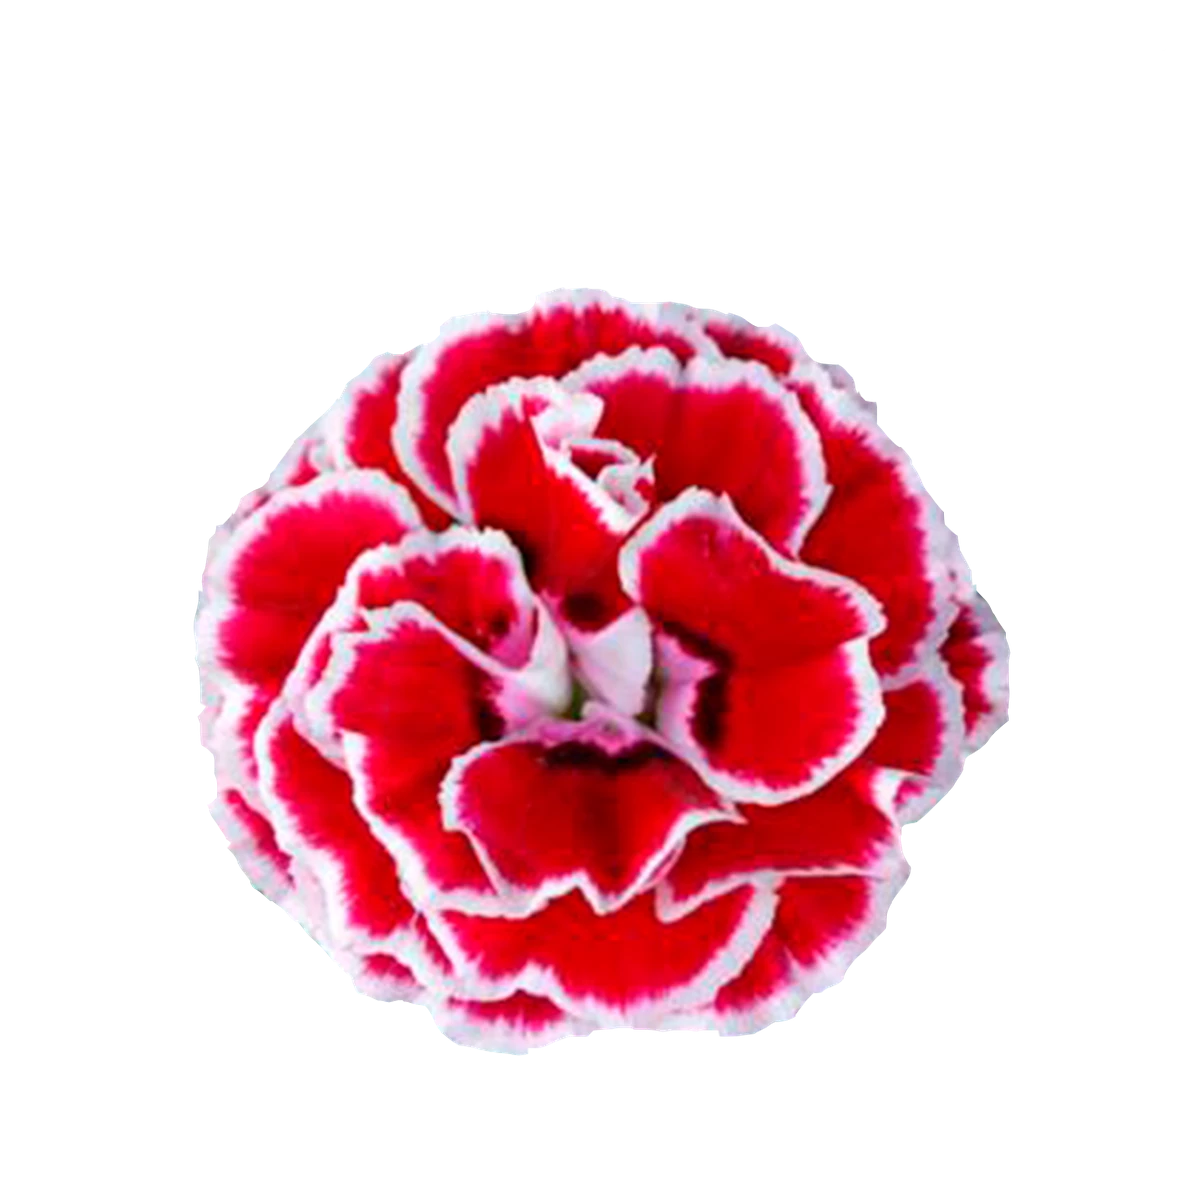
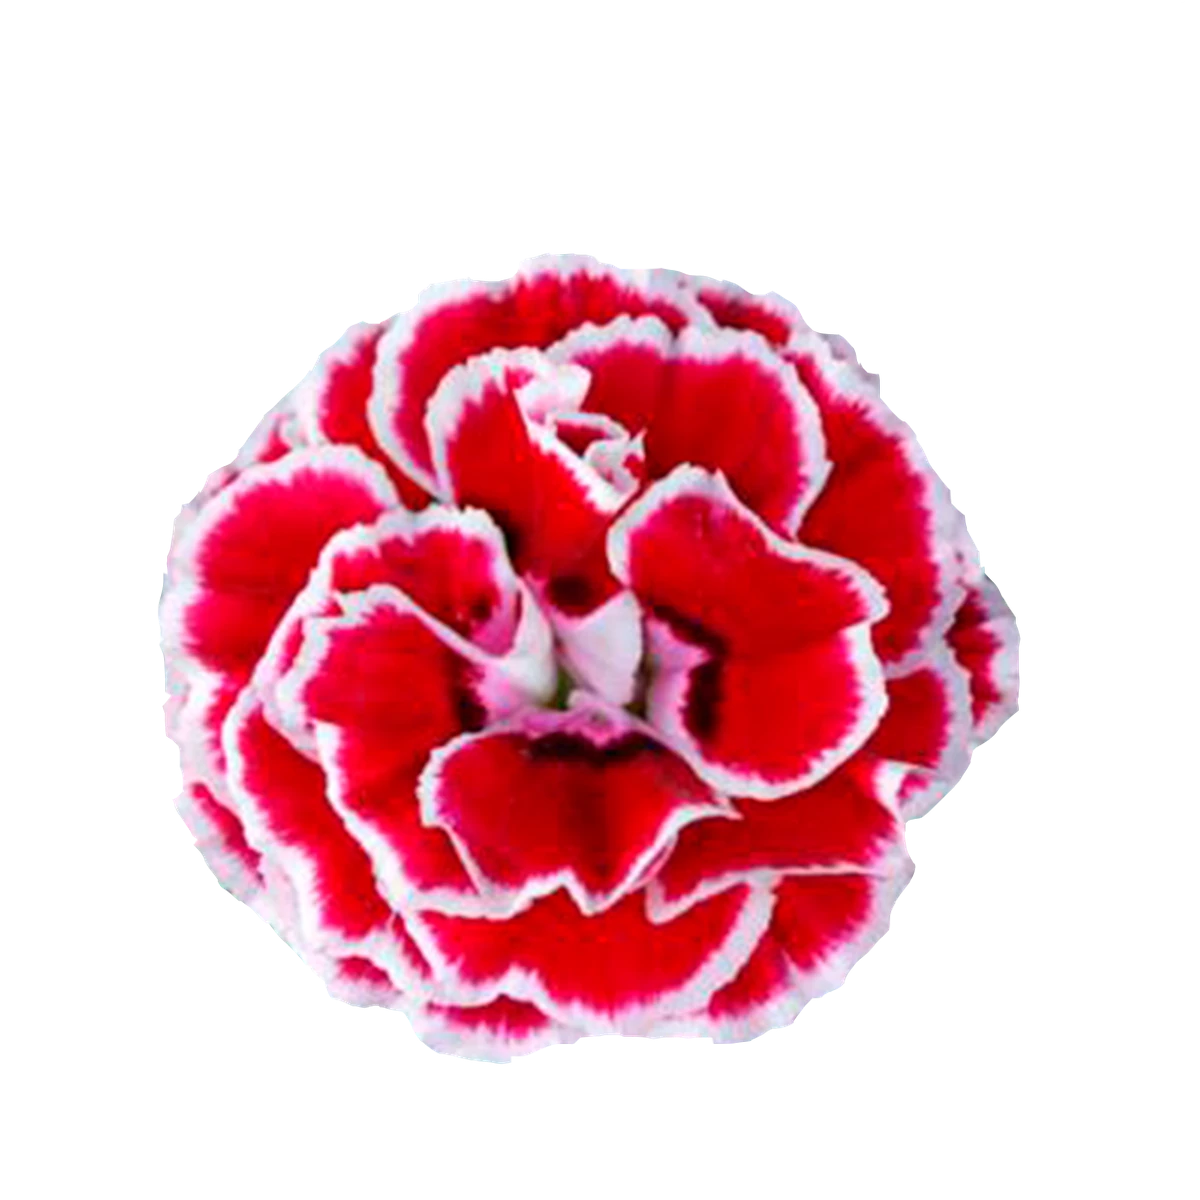
Clavel de la Red Española de Danzas Circulares en vector: contorno parejo y nítido

Changed region(s): [[0.1233, 0.185, 0.8633, 0.8942]]

diff --git a/marcas/index.html b/marcas/index.html
@@ -259,7 +259,7 @@ dialog.zoom img{display:block;max-width:min(96vw,1200px);height:auto;border-radi
     <dl class="spec"><div><dt>Rol</dt><dd>Logo de la Red, logotipo del festival y piezas</dd></div><div><dt>Entregables</dt><dd>Símbolo en color y lineal, logotipo del festival, folleto, mail de inscripción, redes y remera</dd></div><div><dt>Festival</dt><dd>2024, Sant Feliu de Llobregat, Barcelona</dd></div></dl>
   </div>
   <h3 class="label">Camino</h3>
-  <ol class="path"><li class="step"><div class="step-text"><h4>Empezar por lo evidente</h4><p>Primero dibujé una ronda de figuras que giran y un molinete de pétalos. Decían danza, pero no decían España.</p></div><button type="button" class="shot" data-zoom="img/dcs-exploracion.webp" aria-label="Ampliar: Empezar por lo evidente"><img src="img/dcs-exploracion.webp" alt="Dos exploraciones propias: una ronda de figuras y un molinete de pétalos" loading="lazy"></button></li><li class="step step--wide"><div class="step-text"><h4>Del clavel al símbolo</h4><p>Cambié las personas por una flor, el clavel, asociado a España. La animación muestra el camino: la foto, la síntesis en los colores de la marca, la línea que se dibuja girando como una ronda, el color que se abre desde la espiral y el nombre.</p></div><div class="step-media"><figure class="morph" id="clavel" style="--cx:50.126%;--cy:55.905%"><div class="m-stage" role="img" aria-label="Animación: la foto de un clavel se simplifica en los colores de la marca, se dibuja la línea, aparece el color y el nombre en arco"><div class="m-turn"><img class="m-foto" src="img/dcs-m-foto.webp" alt=""><img class="m-poster" src="img/dcs-m-poster.webp" alt=""></div><img class="m-lineas" src="img/dcs-m-lineas.webp" alt=""><img class="m-color" src="img/dcs-m-color.webp" alt=""><img class="m-texto" src="img/dcs-m-texto.webp" alt=""></div><figcaption class="m-bar"><ol class="m-steps"><li>Foto</li><li>Síntesis</li><li>Línea</li><li>Color</li><li>Nombre</li></ol><button type="button" class="m-replay">Ver de nuevo</button></figcaption></figure></div></li><li class="step step--text"><div class="step-text"><h4>Círculo y espiral</h4><p>Los pétalos giran hacia un centro en espiral: la danza. Quedó en color y en una versión lineal de una tinta. El nombre rodea la flor en arco, en una serifa caligráfica, para que el conjunto sea otro círculo.</p></div></li><li class="step step--text"><div class="step-text"><h4>El festival, más directo</h4><p>Para «Directo al corazón» hice un logotipo propio, con letra artística a pincel y la o convertida en corazón. Empezó en azul y terminó en el rojo de la flor. Una línea chica lo acompaña: «Festival de danzas circulares, primera edición».</p></div></li><li class="step step--text"><div class="step-text"><h4>El sistema en uso</h4><p>Una paleta de cinco colores llevó la marca a un folleto, un mail de invitación con la inscripción, publicaciones para redes, una remera y un mockup de teléfono. Todo se ve abajo, en Usos.</p></div></li></ol>
+  <ol class="path"><li class="step"><div class="step-text"><h4>Empezar por lo evidente</h4><p>Primero dibujé una ronda de figuras que giran y un molinete de pétalos. Decían danza, pero no decían España.</p></div><button type="button" class="shot" data-zoom="img/dcs-exploracion.webp" aria-label="Ampliar: Empezar por lo evidente"><img src="img/dcs-exploracion.webp" alt="Dos exploraciones propias: una ronda de figuras y un molinete de pétalos" loading="lazy"></button></li><li class="step step--wide"><div class="step-text"><h4>Del clavel al símbolo</h4><p>Cambié las personas por una flor, el clavel, asociado a España. La animación muestra el camino: la foto, la síntesis en los colores de la marca, la línea que se dibuja girando como una ronda, el color que se abre desde la espiral y el nombre.</p></div><div class="step-media"><figure class="morph" id="clavel" style="--cx:49.079%;--cy:54.821%"><div class="m-stage" role="img" aria-label="Animación: la foto de un clavel se simplifica en los colores de la marca, se dibuja la línea, aparece el color y el nombre en arco"><div class="m-turn"><img class="m-foto" src="img/dcs-m-foto.webp" alt=""><img class="m-poster" src="img/dcs-m-poster.webp" alt=""></div><img class="m-lineas" src="img/dcs-m-lineas.svg" alt=""><img class="m-color" src="img/dcs-m-color.svg" alt=""><img class="m-texto" src="img/dcs-m-texto.svg" alt=""></div><figcaption class="m-bar"><ol class="m-steps"><li>Foto</li><li>Síntesis</li><li>Línea</li><li>Color</li><li>Nombre</li></ol><button type="button" class="m-replay">Ver de nuevo</button></figcaption></figure></div></li><li class="step step--text"><div class="step-text"><h4>Círculo y espiral</h4><p>Los pétalos giran hacia un centro en espiral: la danza. Quedó en color y en una versión lineal de una tinta. El nombre rodea la flor en arco, en una serifa caligráfica, para que el conjunto sea otro círculo.</p></div></li><li class="step step--text"><div class="step-text"><h4>El festival, más directo</h4><p>Para «Directo al corazón» hice un logotipo propio, con letra artística a pincel y la o convertida en corazón. Empezó en azul y terminó en el rojo de la flor. Una línea chica lo acompaña: «Festival de danzas circulares, primera edición».</p></div></li><li class="step step--text"><div class="step-text"><h4>El sistema en uso</h4><p>Una paleta de cinco colores llevó la marca a un folleto, un mail de invitación con la inscripción, publicaciones para redes, una remera y un mockup de teléfono. Todo se ve abajo, en Usos.</p></div></li></ol>
   
   <h3 class="label">Versiones</h3><div class="tiles"><figure class="tile" style="--t:#E9E2B6"><div class="surface"><img src="logos/dcs-color.webp" alt="Símbolo y nombre, en color" loading="lazy"></div><figcaption>Símbolo y nombre, en color</figcaption></figure><figure class="tile" style="--t:#FFFFFF"><div class="surface"><img src="logos/dcs-lineal.webp" alt="Versión lineal, una tinta" loading="lazy"></div><figcaption>Versión lineal, una tinta</figcaption></figure><figure class="tile tile--wide" style="--t:#E9E2B6"><div class="surface"><img src="logos/dcs-festival.webp" alt="Logotipo del festival" loading="lazy"></div><figcaption>Logotipo del festival</figcaption></figure><figure class="tile tile--wide" style="--t:#E9E2B6"><div class="surface"><img src="logos/dcs-festival-linea.webp" alt="Línea del festival" loading="lazy"></div><figcaption>Línea del festival</figcaption></figure></div>
   <h3 class="label">Usos</h3><div class="uses"><figure class="use"><button type="button" class="shot" data-zoom="img/dcs-sistema.webp" aria-label="Ampliar: Folleto, paleta y banner"><img src="img/dcs-sistema.webp" alt="Folleto, paleta y banner del festival" loading="lazy"></button><figcaption>Folleto, paleta y banner</figcaption></figure><figure class="use"><button type="button" class="shot" data-zoom="img/dcs-remera.webp" aria-label="Ampliar: Remera"><img src="img/dcs-remera.webp" alt="Remera con la marca de la Red" loading="lazy"></button><figcaption>Remera</figcaption></figure><figure class="use use--square"><button type="button" class="shot" data-zoom="img/dcs-redes.webp" aria-label="Ampliar: Publicación para redes"><img src="img/dcs-redes.webp" alt="Publicación para redes del festival" loading="lazy"></button><figcaption>Publicación para redes</figcaption></figure></div>
